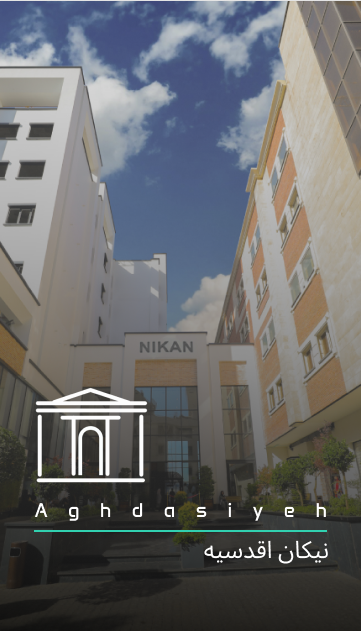
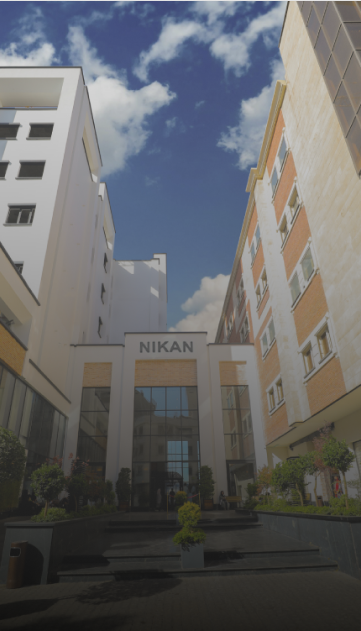
fix: branches title in home page

Changed region(s): [[0.0914, 0.6022, 0.9141, 0.9033]]

diff --git a/src/app/[lang]/(home)/_components/branches/index.tsx b/src/app/[lang]/(home)/_components/branches/index.tsx
@@ -4,38 +4,94 @@ import React from "react";
 const Branches = () => {
   return (
     <div className="lg:max-h-[630px] grid lg:grid-cols-4 md:grid-cols-2 grid-cols-1">
-      <Image
-        src={"/images/aghdasieh-branch.png"}
-        alt="aghdasieh-branch"
-        width={600}
-        height={630}
-        quality={100}
-        className="object-cover lg:h-[630px] h-full"
-      />
-      <Image
-        src={"/images/hakimieh-branch.png"}
-        alt="aghdasieh-branch"
-        width={600}
-        height={630}
-        quality={100}
-        className="object-cover lg:h-[630px] h-full"
-      />
-      <Image
-        src={"/images/second-branch.png"}
-        alt="aghdasieh-branch"
-        width={600}
-        height={630}
-        quality={100}
-        className="object-cover lg:h-[630px] h-full"
-      />
-      <Image
-        src={"/images/aghdasieh-west-branch.png"}
-        alt="aghdasieh-branch"
-        width={600}
-        height={630}
-        quality={100}
-        className="object-cover lg:h-[630px] h-full"
-      />
+      <div className="relative">
+        <Image
+          src={"/images/aghdasieh-branch.png"}
+          alt="aghdasieh-branch"
+          width={600}
+          height={630}
+          quality={100}
+          className="object-cover lg:h-[630px] h-full"
+        />
+        <div className="absolute bottom-[66px] w-full flex flex-col">
+          <Image
+            src={"/images/aghdasieh-branch-name-and-icon.png"}
+            alt="icon"
+            width={316}
+            height={145}
+            className="w-full px-[34px]"
+          />
+          <span className="text-white xl:text-[24px] text-[20px] px-[34px]">
+            نیکان اقدسیه
+          </span>
+        </div>
+      </div>
+      <div className="relative">
+        <Image
+          src={"/images/hakimieh-branch.png"}
+          alt="aghdasieh-branch"
+          width={600}
+          height={630}
+          quality={100}
+          className="object-cover lg:h-[630px] h-full"
+        />
+        <div className="absolute bottom-[66px] w-full flex flex-col">
+          <Image
+            src={"/images/hakimieh-branch-name-and-icon.png"}
+            alt="icon"
+            width={316}
+            height={145}
+            className="w-full px-[34px]"
+          />
+          <span className="text-white xl:text-[24px] text-[20px] px-[34px]">
+            نیکان حکیمیه
+          </span>
+        </div>
+      </div>
+      <div className="relative">
+        <Image
+          src={"/images/second-branch.png"}
+          alt="aghdasieh-branch"
+          width={600}
+          height={630}
+          quality={100}
+          className="object-cover lg:h-[630px] h-full"
+        />
+        <div className="absolute bottom-[66px] w-full flex flex-col">
+          <Image
+            src={"/images/second-branch-name-and-icon.png"}
+            alt="icon"
+            width={316}
+            height={145}
+            className="w-full px-[34px]"
+          />
+          <span className="text-white xl:text-[24px] text-[20px] px-[34px]">
+            نیکان ساختمان شماره دو
+          </span>
+        </div>
+      </div>
+      <div className="relative">
+        <Image
+          src={"/images/aghdasieh-west-branch.png"}
+          alt="aghdasieh-branch"
+          width={600}
+          height={630}
+          quality={100}
+          className="object-cover lg:h-[630px] h-full"
+        />
+        <div className="absolute bottom-[66px] w-full flex flex-col">
+          <Image
+            src={"/images/aghdasieh-west-branch-name-and-icon.png"}
+            alt="icon"
+            width={316}
+            height={145}
+            className="w-full px-[34px]"
+          />
+          <span className="text-white xl:text-[24px] text-[20px] px-[34px]">
+            نیکان ساختمان شماره دو
+          </span>
+        </div>
+      </div>
     </div>
   );
 };
